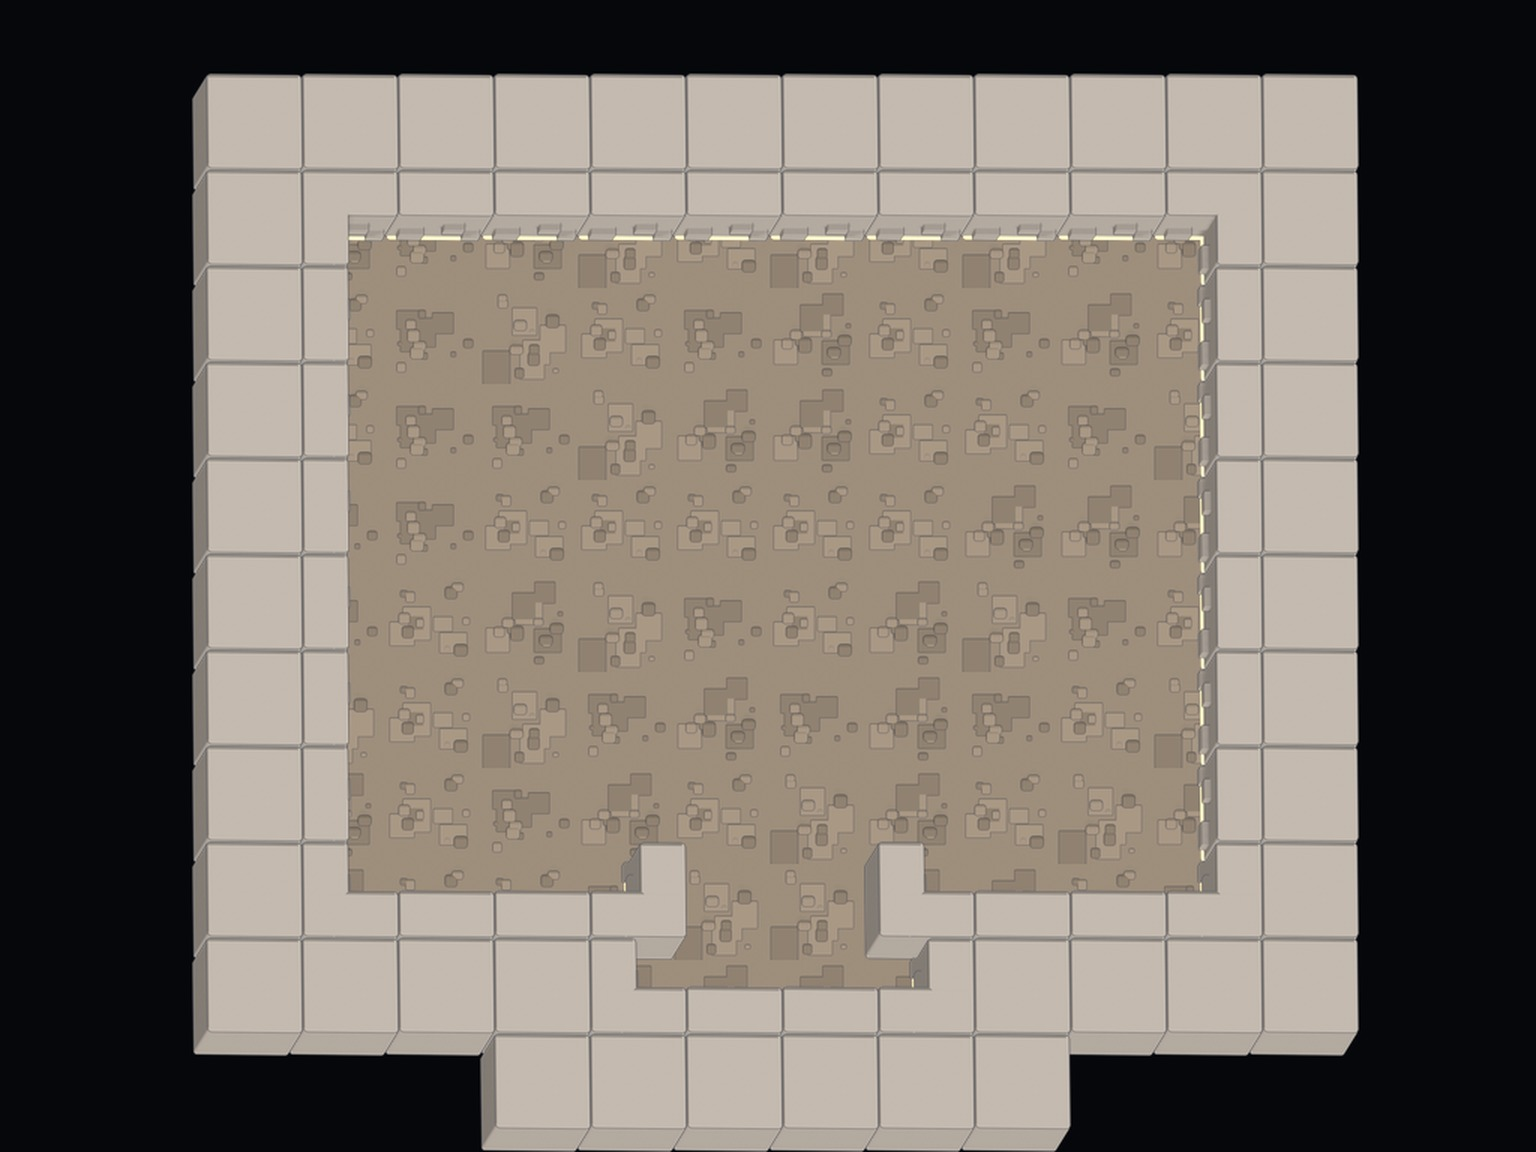
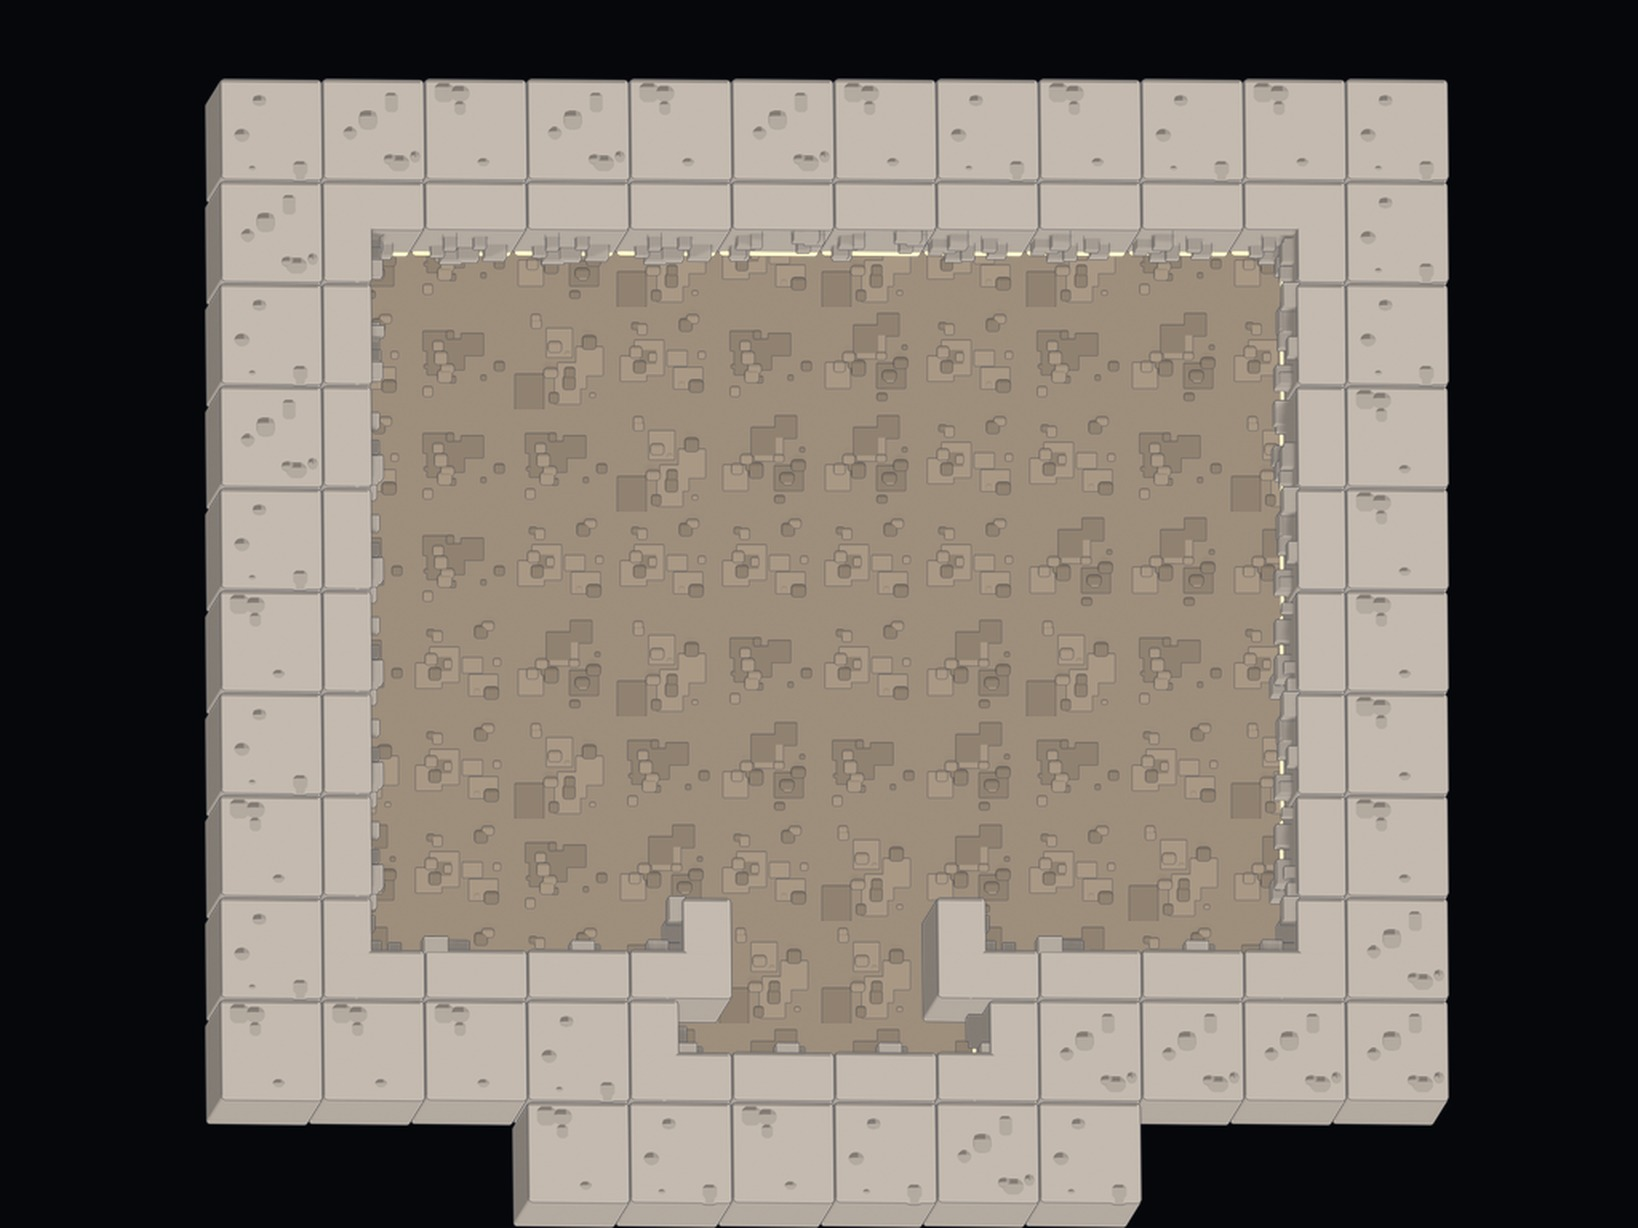
interior: asset-driven variant counts + rocky mine walls
Variant counts are now read from the packed strips themselves (png_dims on
the IHDR header): the wall atlas is 9 tile-types across x N variants down, the
floor atlas is M across. Adding variety is a re-bake, no code change — the
hardcoded floor match is gone.

Mine walls now match the dirt floor: 3 seamless rough-rock variants (clustered
face lumps + bumpy caps, variant-seeded) shuffled per cell, so a dig reads as
hewn rock rather than recoloured panels.

diff --git a/scripts/ship3d/interior_cabinet_tiles.py b/scripts/ship3d/interior_cabinet_tiles.py
@@ -49,22 +49,22 @@ VENUES = {
     "interior": dict(floor=(0.32, 0.36, 0.42), floor_hi=(0.39, 0.43, 0.50),
                      seam=(0.24, 0.27, 0.32), wall=(0.52, 0.55, 0.61),
                      wall_top=(0.66, 0.69, 0.75), trim=(0.25, 0.72, 0.86),
-                     detail=None, floor_style="panel", floors=1),
+                     detail=None, floor_style="panel", floors=1, walls=1),
     # mine — dirt floor (4 rock-scatter variants), rough rock walls, amber trim
     "mine": dict(floor=(0.34, 0.27, 0.20), floor_hi=(0.39, 0.31, 0.23),
                  seam=(0.19, 0.15, 0.11), wall=(0.45, 0.40, 0.35),
                  wall_top=(0.55, 0.49, 0.43), trim=(0.96, 0.62, 0.24),
-                 detail="rock", floor_style="dirt", floors=4),
+                 detail="rock", floor_style="dirt", floors=4, walls=3),
     # warehouse — concrete deck, corrugated steel walls, safety-yellow trim
     "warehouse": dict(floor=(0.44, 0.45, 0.47), floor_hi=(0.50, 0.51, 0.53),
                       seam=(0.30, 0.31, 0.33), wall=(0.50, 0.54, 0.60),
                       wall_top=(0.62, 0.66, 0.72), trim=(0.95, 0.80, 0.24),
-                      detail="ribs", floor_style="panel", floors=1),
+                      detail="ribs", floor_style="panel", floors=1, walls=1),
     # substation — grating floor, dark conduit walls, electric-teal trim
     "substation": dict(floor=(0.24, 0.28, 0.30), floor_hi=(0.29, 0.34, 0.36),
                        seam=(0.15, 0.19, 0.21), wall=(0.38, 0.43, 0.48),
                        wall_top=(0.48, 0.54, 0.60), trim=(0.30, 0.92, 0.72),
-                       detail="conduit", floor_style="panel", floors=1),
+                       detail="conduit", floor_style="panel", floors=1, walls=1),
 }
 
 
@@ -82,8 +82,10 @@ def _face(edge):
     raise ValueError(edge)
 
 
-def _face_detail(edge, kind, mat, glow):
-    """Add venue greebles on the room-facing wall face of one edge slab."""
+def _face_detail(edge, kind, variant, mat, glow):
+    """Add venue greebles on the room-facing wall face of one edge slab.
+    `variant` seeds the organic (rock) placement so several wall tiles shuffle
+    across a run without visibly repeating."""
     if kind is None:
         return
     run, (fax, fc), ns = _face(edge)
@@ -104,11 +106,22 @@ def _face_detail(edge, kind, mat, glow):
     elif kind == "conduit":  # substation — a pipe run + a glowing node
         place(f"pipe{edge}", 0.0, 0.05, h * 0.58, 0.92, 0.08, 0.1, mat)
         place(f"node{edge}", 0.26, 0.07, h * 0.58, 0.1, 0.06, 0.14, glow)
-    elif kind == "rock":  # mine — a couple of irregular boulders
-        for i, (p, z, s) in enumerate(((-0.28, h * 0.32, 0.26),
-                                       (0.14, h * 0.55, 0.22),
-                                       (0.36, h * 0.28, 0.18))):
-            place(f"rock{edge}{i}", p, 0.02, z, s, 0.1, s, mat)
+    elif kind == "rock":  # mine — rough dug rock, clustered lumps + cap bumps
+        import random
+        rng = random.Random(700 + variant * 37 + (ord(edge[-1]) * 13))
+        for i in range(7):  # lumps over the room-facing face
+            along = rng.uniform(-0.43, 0.43)
+            z = rng.uniform(0.12, 0.96) * h
+            s = rng.uniform(0.1, 0.26)
+            place(f"rk{edge}{i}", along, 0.02 + rng.uniform(0, 0.04), z,
+                  s, 0.12 + rng.uniform(0, 0.06), s * rng.uniform(0.7, 1.2), mat)
+        # a few bumps riding the top cap so the ridge isn't a clean edge
+        (cx, cy, _), _ = _edge_slab(edge)
+        for i in range(4):
+            along = rng.uniform(-0.4, 0.4)
+            s = rng.uniform(0.12, 0.24)
+            loc = (along, cy, h * 0.96) if run == "x" else (cx, along, h * 0.96)
+            B.add_box(f"rkc{edge}{i}", loc, (s, s, 0.14), mat, bevel=0.4)
 
 
 def _shear():
@@ -155,7 +168,18 @@ def _edge_trim(edge):
     raise ValueError(edge)
 
 
-def bake_tile(venue, pal, name, edges):
+def _cap_rock(variant, mat):
+    """Bumpy top for a deep (V) cap — variant-seeded so caps vary too."""
+    import random
+    rng = random.Random(311 + variant * 53)
+    for i in range(9):
+        x, y = rng.uniform(-0.42, 0.42), rng.uniform(-0.42, 0.42)
+        s = rng.uniform(0.12, 0.26)
+        B.add_box(f"vrk{i}", (x, y, WALL_H * 0.95 + rng.uniform(0, 0.08)),
+                  (s, s * rng.uniform(0.7, 1.3), 0.16), mat, bevel=0.4)
+
+
+def bake_tile(venue, pal, name, edges, variant=0):
     B.reset()
     mw = B.toon_material("wall", pal["wall"])
     mwt = B.toon_material("walltop", pal["wall_top"])
@@ -167,6 +191,8 @@ def bake_tile(venue, pal, name, edges):
         # (its faces are covered by neighbouring walls). Fills deep/thick walls.
         B.add_box("w_V", (0, 0, WALL_H / 2), (1.0, 1.0, WALL_H), mw, bevel=0.03)
         B.add_box("cap_V", (0, 0, WALL_H + 0.03), (1.0, 1.0, 0.08), mwt)
+        if pal["detail"] == "rock":
+            _cap_rock(variant, mw)
     else:
         for e in edges:
             (cx, cy, cz), (sx, sy, sz) = _edge_slab(e)
@@ -174,11 +200,11 @@ def bake_tile(venue, pal, name, edges):
             B.add_box(f"cap_{e}", (cx, cy, WALL_H + 0.03), (sx, sy, 0.08), mwt)
             (tx, ty, tz), (tsx, tsy, tsz) = _edge_trim(e)
             B.add_box(f"tr_{e}", (tx, ty, tz), (tsx, tsy, tsz), mt)
-            _face_detail(e, pal["detail"], md, mg)
+            _face_detail(e, pal["detail"], variant, md, mg)
     _shear()
     B.setup_scene(ortho=FRAME, res=RES, freestyle_thick=1.4)
     _topdown()
-    B.render_to(os.path.join(OUT, f"_it_{venue}_{name}.png"))
+    B.render_to(os.path.join(OUT, f"_it_{venue}_{name}_v{variant}.png"))
 
 
 def bake_floor(venue, pal, variant=0):
@@ -240,7 +266,8 @@ if __name__ == "__main__":
         pal = VENUES[venue]
         for v in range(pal.get("floors", 1)):
             bake_floor(venue, pal, v)
-        for name, edges in TILES.items():
-            bake_tile(venue, pal, name, edges)
+        for wv in range(pal.get("walls", 1)):
+            for name, edges in TILES.items():
+                bake_tile(venue, pal, name, edges, wv)
         print("baked venue", venue)
     print("tiles →", os.path.abspath(OUT))

diff --git a/src/surface/interiors.rs b/src/surface/interiors.rs
@@ -461,9 +461,9 @@ const T_WALL: u32 = 3;
 // past the grid); it's placed by its GROUND ORIGIN (the cell centre at z=0)
 // via a Bevy anchor, then y-sorted like any prop.
 const CAB_CELL_W: u32 = 74;
-const CAB_CELL_H: u32 = 79;
+const CAB_CELL_H: u32 = 80;
 const CAB_ASSET_PXU: f32 = 64.0; // asset pixels per world unit (→ TILE_PX in game)
-const CAB_ANCHOR: Vec2 = Vec2::new(-0.06419, -0.10127);
+const CAB_ANCHOR: Vec2 = Vec2::new(-0.06419, -0.10625);
 /// Foot-x weight for depth sorting = the bake's SHX/SHY lean ratio. Walls
 /// lean up-and-right, so left-of-same-row renders in front (see DepthShear).
 const CAB_SHEAR: f32 = 0.26 / 0.42;
@@ -471,15 +471,19 @@ const CAB_SHEAR: f32 = 0.26 / 0.42;
 /// before giving way to the black void beyond — a room, not walls forever.
 const CAB_WALL_BAND: i32 = 2;
 
-/// How many interchangeable floor tiles a venue's floor atlas holds. One = a
-/// single repeated tile (clean decks); several = shuffled per cell so an
-/// organic floor (the mine's dirt) never reads as a grid. Must match the
-/// floor strip baked by pack_interior_tiles.py.
-fn cab_floor_variants(biome_name: &str) -> u32 {
-    match biome_name {
-        "mine" => 4,
-        _ => 1,
+/// Read a PNG's `(width, height)` from its IHDR header without decoding the
+/// image. Lets the venue tilesets be self-describing: the number of floor /
+/// wall variants is simply how many cells fit across / down the packed strip
+/// (baked by pack_interior_tiles.py), so adding variety is a re-bake, no code.
+fn png_dims(path: &str) -> Option<(u32, u32)> {
+    let b = crate::embedded_assets::read_bytes(path).ok()?;
+    // 8-byte signature, then the IHDR chunk: 4-byte len, "IHDR", w, h (BE).
+    if b.len() < 24 || &b[12..16] != b"IHDR" {
+        return None;
     }
+    let w = u32::from_be_bytes([b[16], b[17], b[18], b[19]]);
+    let h = u32::from_be_bytes([b[20], b[21], b[22], b[23]]);
+    Some((w, h))
 }
 
 /// Pick the cabinet wall tile (index into the 9-cell strip) for a wall cell
@@ -1217,23 +1221,25 @@ pub(crate) fn setup_interior(
             let b = CAB_WALL_BAND;
             (-b..=b).any(|dy| (-b..=b).any(|dx| !wall(tx + dx, ty + dy)))
         };
-        let walls_atlas: Handle<Image> = asset_server.load(format!(
-            "{WORLDS_DIR}/interior_cabinet_walls{cab_suffix}.png"
-        ));
-        let floor_image: Handle<Image> = asset_server.load(format!(
-            "{WORLDS_DIR}/interior_cabinet_floor{cab_suffix}.png"
-        ));
+        let walls_rel = format!("{WORLDS_DIR}/interior_cabinet_walls{cab_suffix}.png");
+        let floor_rel = format!("{WORLDS_DIR}/interior_cabinet_floor{cab_suffix}.png");
+        let walls_atlas: Handle<Image> = asset_server.load(walls_rel.clone());
+        let floor_image: Handle<Image> = asset_server.load(floor_rel.clone());
+        // Variant counts come from the packed strips themselves (self-describing):
+        // the wall atlas is 9 tile-types across × N variants down; the floor
+        // atlas is M variants across. Each cell picks a variant by a
+        // deterministic hash, so organic surfaces shuffle without a pattern.
+        let wall_variants =
+            png_dims(&format!("assets/{walls_rel}")).map_or(1, |(_, h)| (h / CAB_CELL_H).max(1));
+        let floor_variants = png_dims(&format!("assets/{floor_rel}"))
+            .map_or(1, |(w, _)| (w / CAB_ASSET_PXU as u32).max(1));
         let walls_layout = atlas_layouts.add(TextureAtlasLayout::from_grid(
             UVec2::new(CAB_CELL_W, CAB_CELL_H),
             9,
-            1,
+            wall_variants,
             None,
             None,
         ));
-        // Floor atlas: N interchangeable variants in one row (N == 1 for a
-        // single-tile floor). Each cell is picked per grid position by a
-        // deterministic hash, so an organic floor shuffles without a pattern.
-        let floor_variants = cab_floor_variants(biome_name);
         let floor_layout = atlas_layouts.add(TextureAtlasLayout::from_grid(
             UVec2::splat(CAB_ASSET_PXU as u32),
             floor_variants,
@@ -1275,11 +1281,14 @@ pub(crate) fn setup_interior(
                 // Deep caps beyond the wall band are left as black void.
                 let hidden = idx == 8 && !near_floor(tx as i32, ty as i32);
                 if is_wall && !hidden {
+                    // Row = tile type (0..9), variant picks the row band.
+                    let wv = (rng_ish(tx.wrapping_add(101), ty.wrapping_add(53)) % wall_variants)
+                        as usize;
                     let mut w = Sprite::from_atlas_image(
                         walls_atlas.clone(),
                         TextureAtlas {
                             layout: walls_layout.clone(),
-                            index: idx,
+                            index: wv * 9 + idx,
                         },
                     );
                     w.custom_size = Some(wall_size);

diff --git a/scripts/ship3d/pack_interior_tiles.py b/scripts/ship3d/pack_interior_tiles.py
@@ -47,14 +47,22 @@ def content_box(im, thr=12):
     return xs.min(), ys.min(), xs.max() + 1, ys.max() + 1
 
 
+def wall_variant_count(v):
+    k = 0
+    while os.path.exists(os.path.join(TILES, f"_it_{v}_N_v{k}.png")):
+        k += 1
+    return max(k, 1)
+
+
 def main():
     os.makedirs(WORLDS, exist_ok=True)
-    # Load every wall tile of every venue.
-    imgs = {(v, n): Image.open(os.path.join(TILES, f"_it_{v}_{n}.png")).convert("RGBA")
-            for v in VENUES for n in ORDER}
+    wall_counts = {v: wall_variant_count(v) for v in VENUES}
+    # Load every wall tile of every venue and variant.
+    imgs = {(v, wv, n): Image.open(os.path.join(TILES, f"_it_{v}_{n}_v{wv}.png")).convert("RGBA")
+            for v in VENUES for wv in range(wall_counts[v]) for n in ORDER}
 
-    # ONE common box across ALL venues → shared canvas + shared ground origin,
-    # so the venue-specific greebles never shift the anchor.
+    # ONE common box across ALL venues/variants → shared canvas + shared ground
+    # origin, so venue greebles never shift the anchor.
     boxes = [content_box(im) for im in imgs.values()]
     l = min(b[0] for b in boxes)
     t = min(b[1] for b in boxes)
@@ -69,10 +77,13 @@ def main():
 
     floor_counts = {}
     for v, suffix in VENUES.items():
-        strip = Image.new("RGBA", (aw * len(ORDER), ah), (0, 0, 0, 0))
-        for i, n in enumerate(ORDER):
-            cell = imgs[(v, n)].crop((l, t, r, b)).resize((aw, ah), Image.LANCZOS)
-            strip.paste(cell, (i * aw, 0))
+        # Wall atlas: 9 tile-types across × N variants down.
+        nwv = wall_counts[v]
+        strip = Image.new("RGBA", (aw * len(ORDER), ah * nwv), (0, 0, 0, 0))
+        for wv in range(nwv):
+            for i, n in enumerate(ORDER):
+                cell = imgs[(v, wv, n)].crop((l, t, r, b)).resize((aw, ah), Image.LANCZOS)
+                strip.paste(cell, (i * aw, wv * ah))
         strip.save(os.path.join(WORLDS, f"interior_cabinet_walls{suffix}.png"))
         # Floor variants → a horizontal strip (1 cell for a single-tile floor,
         # N interchangeable cells for organic floors like the mine's dirt).
@@ -91,6 +102,7 @@ def main():
     ax = ox / aw - 0.5
     ay = 0.5 - oy / ah
     print(f"venues         = {', '.join(VENUES)}")
+    print(f"wall_variants  = {wall_counts}")
     print(f"floor_variants = {floor_counts}")
     print(f"cell_px        = {aw} x {ah}")
     print(f"ground_origin  = ({ox:.1f}, {oy:.1f}) px  (from top-left of cell)")

diff --git a/src/embedded_assets.rs b/src/embedded_assets.rs
@@ -38,6 +38,26 @@ pub fn read_to_string(path: &str) -> std::io::Result<String> {
     std::fs::read_to_string(path)
 }
 
+/// Read a binary asset (e.g. a PNG). `path` is relative to the project root.
+/// Transparently sources from the embedded archive when `bundle` is enabled.
+pub fn read_bytes(path: &str) -> std::io::Result<Vec<u8>> {
+    #[cfg(feature = "bundle")]
+    {
+        if let Some(rel) = path.strip_prefix("assets/") {
+            return EMBEDDED_ASSETS
+                .get_file(rel)
+                .map(|f| f.contents().to_vec())
+                .ok_or_else(|| {
+                    std::io::Error::new(
+                        std::io::ErrorKind::NotFound,
+                        format!("embedded asset not found: {path}"),
+                    )
+                });
+        }
+    }
+    std::fs::read(path)
+}
+
 /// Recursively read every `*.yaml`/`*.yml` file under `dir`, returning a
 /// nested `serde_yaml::Mapping` keyed by file/directory *stems*. Mirrors the
 /// behavior of the disk walker in [`crate::item_universe::dir_to_yaml`] but
